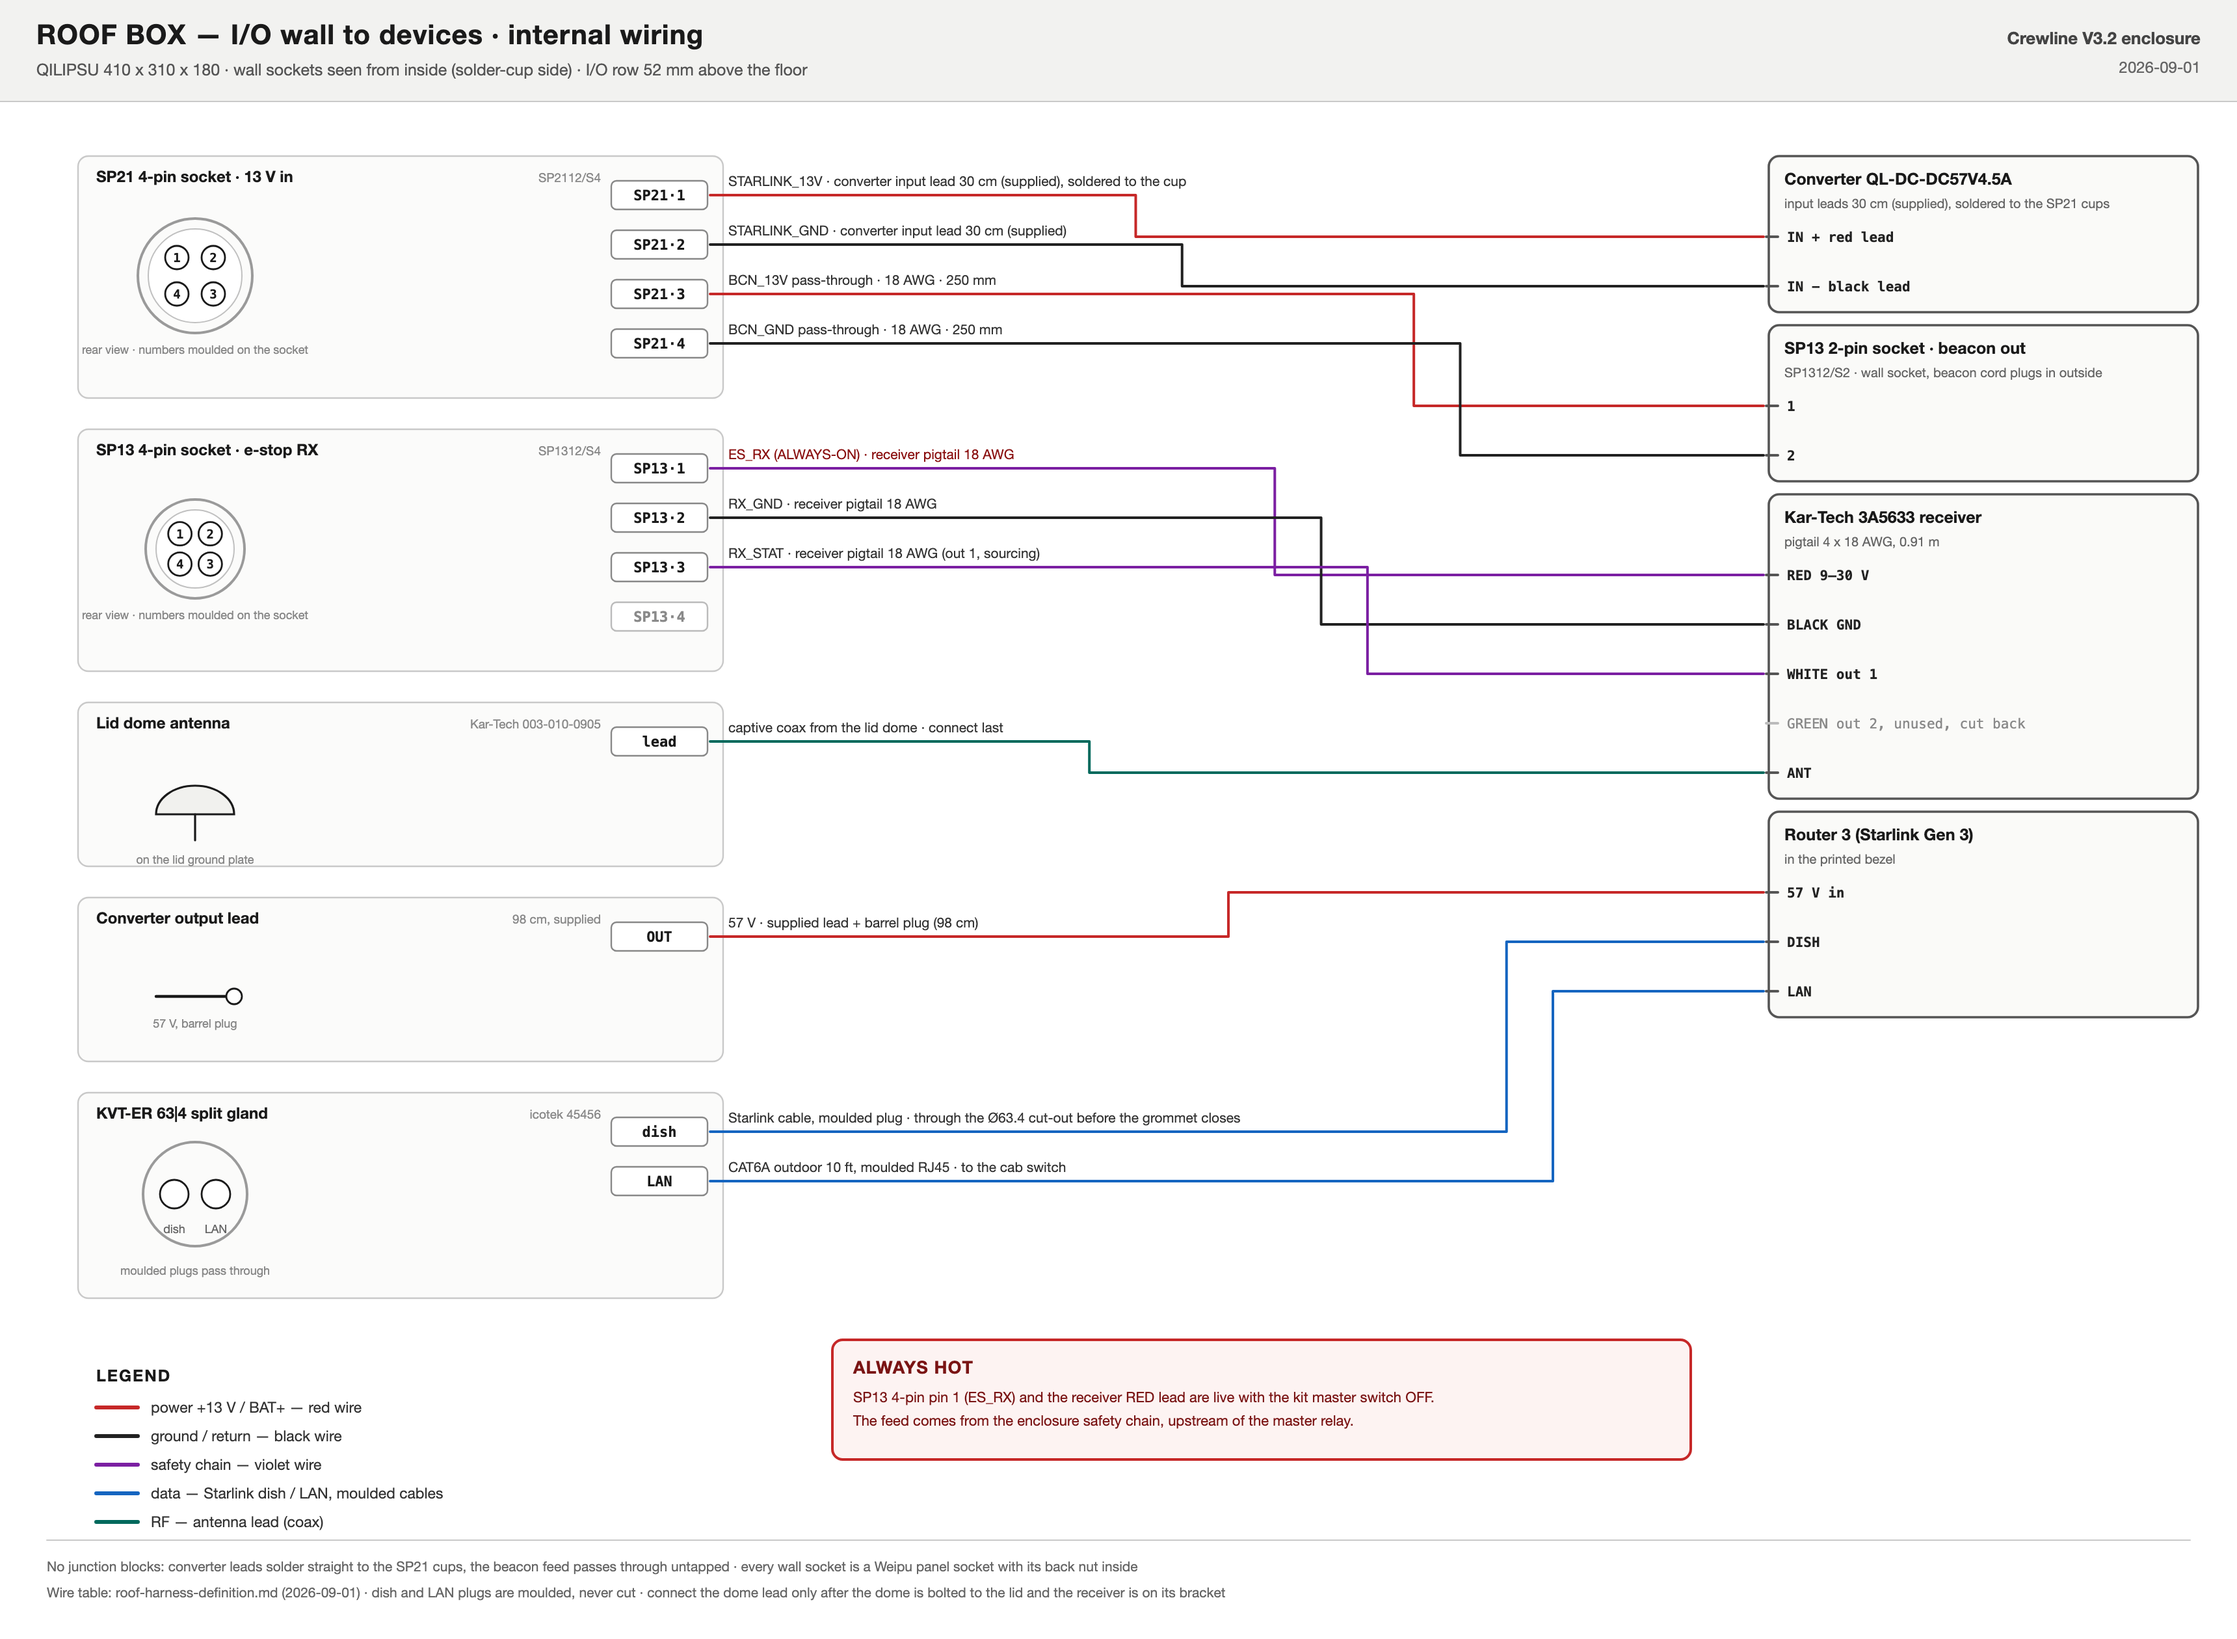
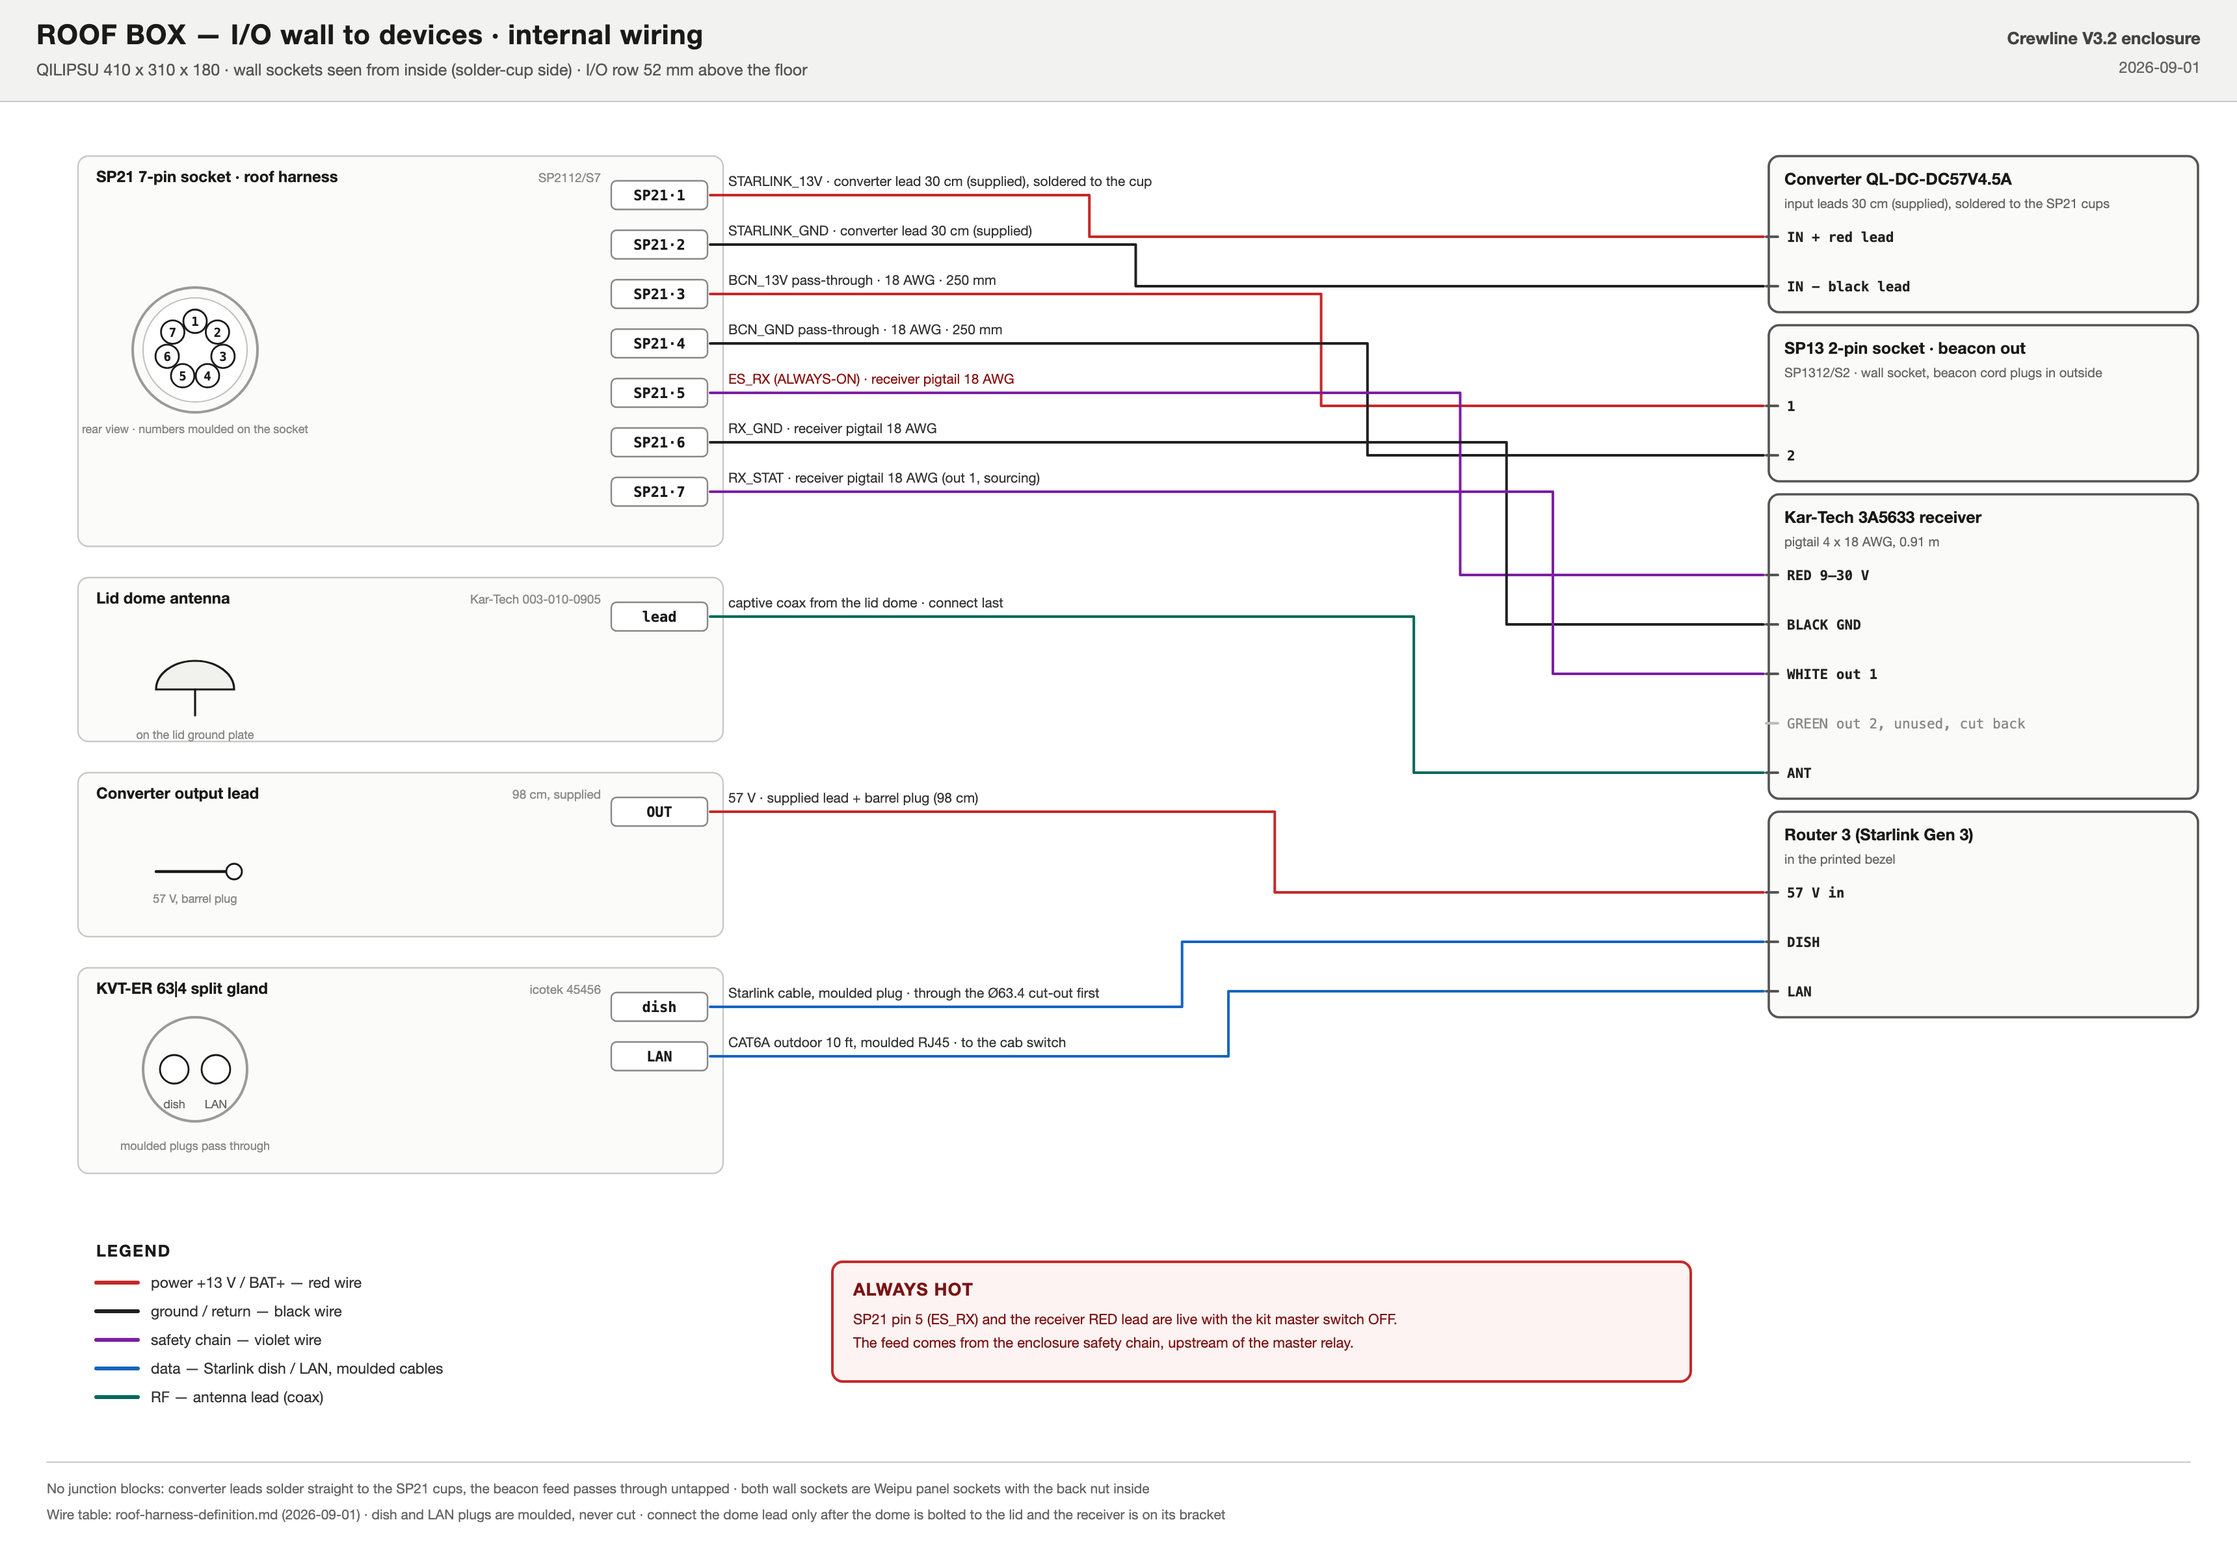
Roof harness: single SP21 7-pin box plug replaces the SP21 4-pin + SP13 4-pin pair
All seven ROOF conductors (A/B Starlink, E/F beacon, J/L/K receiver) land on one
Weipu SP21 7-pin cable plug (15 A contacts); RX_STAT moves to 18 AWG. Box drawing
shows the 7-pin socket as the single harness source. Truth doc updated.

diff --git a/docs/roof-harness-definition.md b/docs/roof-harness-definition.md
@@ -7,21 +7,21 @@ itself, its pigtail and its face pinout are in `internal-wiring-definition.md` a
 ## Roof harness: enclosure ROOF receptacle to the box wall plugs
 
 Cab end: TE Deutsch HD36-18-14SE plug (mates HD34-18-14PE), size-16 socket contacts. Trunk 3.5 m
-cut length: 2.0 m up the rear-left ROPS leg, about 0.9 m across the roof, plus the cab tail. The trunk
-forks at the box into two legs of about 0.30 m, one per Weipu cable plug.
+cut length: 2.0 m up the rear-left ROPS leg, about 0.9 m across the roof, plus the cab tail. The box
+end is one Weipu SP21 7-pin cable plug (15 A contacts) into the SP2112/S7 wall socket.
 
-| ROOF cavity | Circuit | AWG | Class | Leg | Plug · pin |
-|---|---|---|---|---|---|
-| A | STARLINK_13V (FH4) | 16 | PWR | box power | SP21 · 1 |
-| B | STARLINK_GND | 16 | GND | box power | SP21 · 2 |
-| E | BCN_13V (FH5, K53 switched) | 16 | PWR | box power | SP21 · 3 |
-| F | BCN_GND | 16 | GND | box power | SP21 · 4 |
-| J | ES_RX (always on) | 18 | SAFE | e-stop RX | SP13 · 1 |
-| L | RX_GND | 18 | GND | e-stop RX | SP13 · 2 |
-| K | RX_STAT | 20 | SAFE | e-stop RX | SP13 · 3 |
-| C, D, G, H, M, N, P | LiDAR power, LiDAR CAN, spare pair, plugged cavity | — | — | — | sealed (TE 114017) |
+| ROOF cavity | Circuit | AWG | Class | Plug · pin |
+|---|---|---|---|---|
+| A | STARLINK_13V (FH4) | 16 | PWR | SP21 · 1 |
+| B | STARLINK_GND | 16 | GND | SP21 · 2 |
+| E | BCN_13V (FH5, K53 switched) | 16 | PWR | SP21 · 3 |
+| F | BCN_GND | 16 | GND | SP21 · 4 |
+| J | ES_RX (always on) | 18 | SAFE | SP21 · 5 |
+| L | RX_GND | 18 | GND | SP21 · 6 |
+| K | RX_STAT | 18 | SAFE | SP21 · 7 |
+| C, D, G, H, M, N, P | LiDAR power, LiDAR CAN, spare pair, plugged cavity | — | — | sealed (TE 114017) |
 
-SP13 · 4 is spare. The plug's wire-side view is the mirror of the receptacle rear view; the cavity
+The plug's wire-side view is the mirror of the receptacle rear view; the cavity
 letters are moulded on the plug grommet.
 
 ## Inside the roof junction box
@@ -32,9 +32,9 @@ letters are moulded on the plug grommet.
 | SP21 cup 2 | converter IN − | converter's own black input lead (supplied) | 30 cm |
 | SP21 cup 3 | SP13 2-pin cup 1 | 18 AWG red, beacon feed pass-through | 250 mm |
 | SP21 cup 4 | SP13 2-pin cup 2 | 18 AWG black, beacon return pass-through | 250 mm |
-| SP13 4-pin cup 1 | receiver RED (9–30 V) | receiver pigtail, 18 AWG | 0.91 m pigtail |
-| SP13 4-pin cup 2 | receiver BLACK (GND) | receiver pigtail, 18 AWG | |
-| SP13 4-pin cup 3 | receiver WHITE (E-stop output 1, sourcing) | receiver pigtail, 18 AWG | |
+| SP21 cup 5 | receiver RED (9–30 V) | receiver pigtail, 18 AWG | 0.91 m pigtail |
+| SP21 cup 6 | receiver BLACK (GND) | receiver pigtail, 18 AWG | |
+| SP21 cup 7 | receiver WHITE (E-stop output 1, sourcing) | receiver pigtail, 18 AWG | |
 | — | receiver GREEN (output 2) | not used, cut back and heat-shrunk | |
 | converter OUT | router 57 V barrel | converter's own output lead + barrel plug (supplied) | 98 cm |
 | KVT grommet | router DISH port | Starlink cable, moulded plug, passes the Ø63.4 cut-out before the grommet closes | 15 m fixed |
@@ -51,12 +51,11 @@ passes through the box untapped.
 | Cab plug | TE Deutsch HD36-18-14SE | 1 |
 | Socket contacts, size 16 | TE 0462-201-16141 | 7 |
 | Sealing plugs, size 16 | TE 114017 | 7 |
-| Box power plug | Weipu SP2110/P4 (cable plug, 4-pin) | 1 |
-| E-stop RX plug | Weipu SP1310/P4 (cable plug, 4-pin) | 1 |
-| Wall sockets | Weipu SP2112/S4, SP1312/S4, SP1312/S2 (beacon out) | 1 each |
+| Box harness plug | Weipu SP2110/P7 (cable plug, 7-pin, 15 A contacts) | 1 |
+| Wall sockets | Weipu SP2112/S7 (harness), SP1312/S2 (beacon out) | 1 each |
 | Beacon cord plug | Weipu SP1310/P2 | 1 |
 | Split gland | icotek KVT-ER 63|4 (45456) | 1 |
-| Wire | 16 AWG red/black (two pairs), 18 AWG violet + black, 20 AWG violet, braided loom | 3.5 m each |
+| Wire | 16 AWG GXL red/black (two pairs), 18 AWG TXL violet ×2 + black, braided loom | 3.5 m each |
 
 ## Design notes
 
@@ -66,7 +65,8 @@ and the size-16 contacts (13 A) carry that current.
 
 The beacon pair E/F is switched by K53 on the power board (autonomy engaged), so the beacon cannot
 hang off the box's own 13 V feed. It enters the box on SP21 pins 3/4 and passes straight through to
-the SP13 2-pin beacon socket. That is why the SP21 is the 4-pin version.
+the SP13 2-pin beacon socket. One 7-pin SP21 carries the whole harness into the box: the SP21
+7-pin contacts are rated 15 A, the Starlink feed draws up to 7.7 A.
 
 The receiver's E-stop output 1 (white) is a sourcing output that carries the receiver supply voltage
 while the link is healthy and no transmitter is stopped, and it drops when a stop is pressed or the
